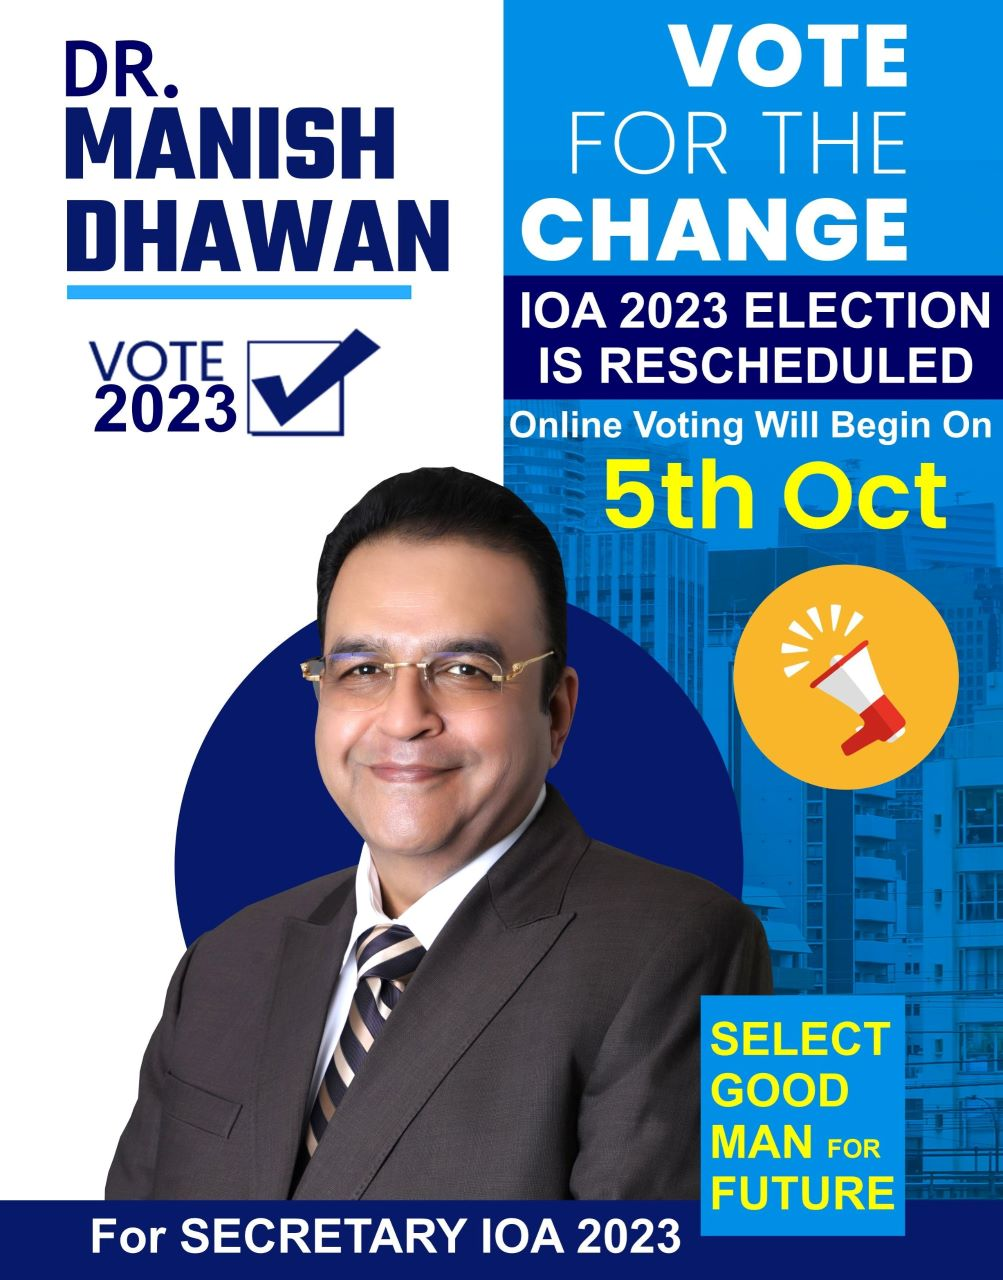
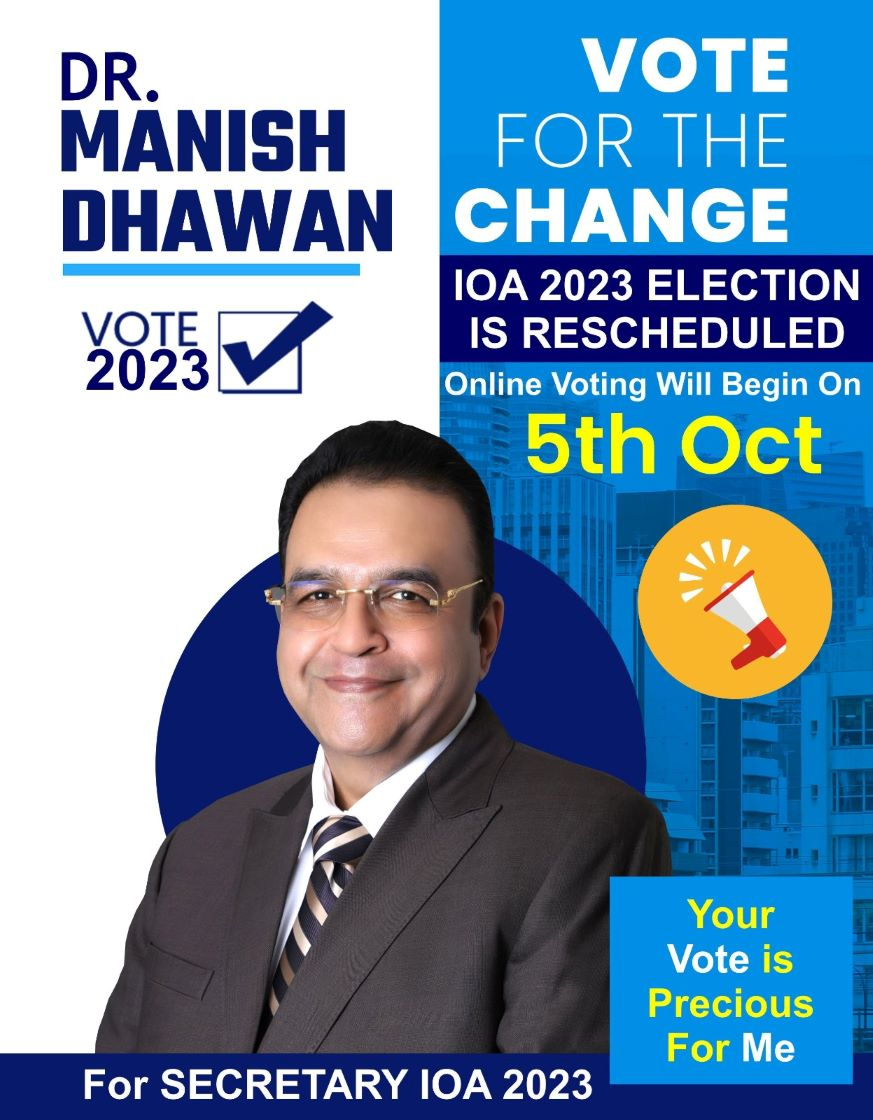
Emial Template

diff --git a/Email-Marketing/EmailTemplate/IOA_Elections_dates.html b/Email-Marketing/EmailTemplate/IOA_Elections_dates.html
@@ -72,7 +72,7 @@
       <!-- ========= Support Poster  Section Started ========= -->
             <tr>
                 <td  colspan = "2">
-                 <img src="https://github.com/techiedharam/Dr.ManishDhawan/blob/master/Email-Marketing/assets/VotingInfoPoster2.jpg?raw=true" alt="" width="100%">                   
+                 <img src="https://github.com/techiedharam/Dr.ManishDhawan/blob/master/Email-Marketing/assets/VotingInfoPoster3.jpg?raw=true" alt="" width="100%">                   
                 </td>
             </tr>
             <!-- ========= Support Poster  Section Ended ========= -->
